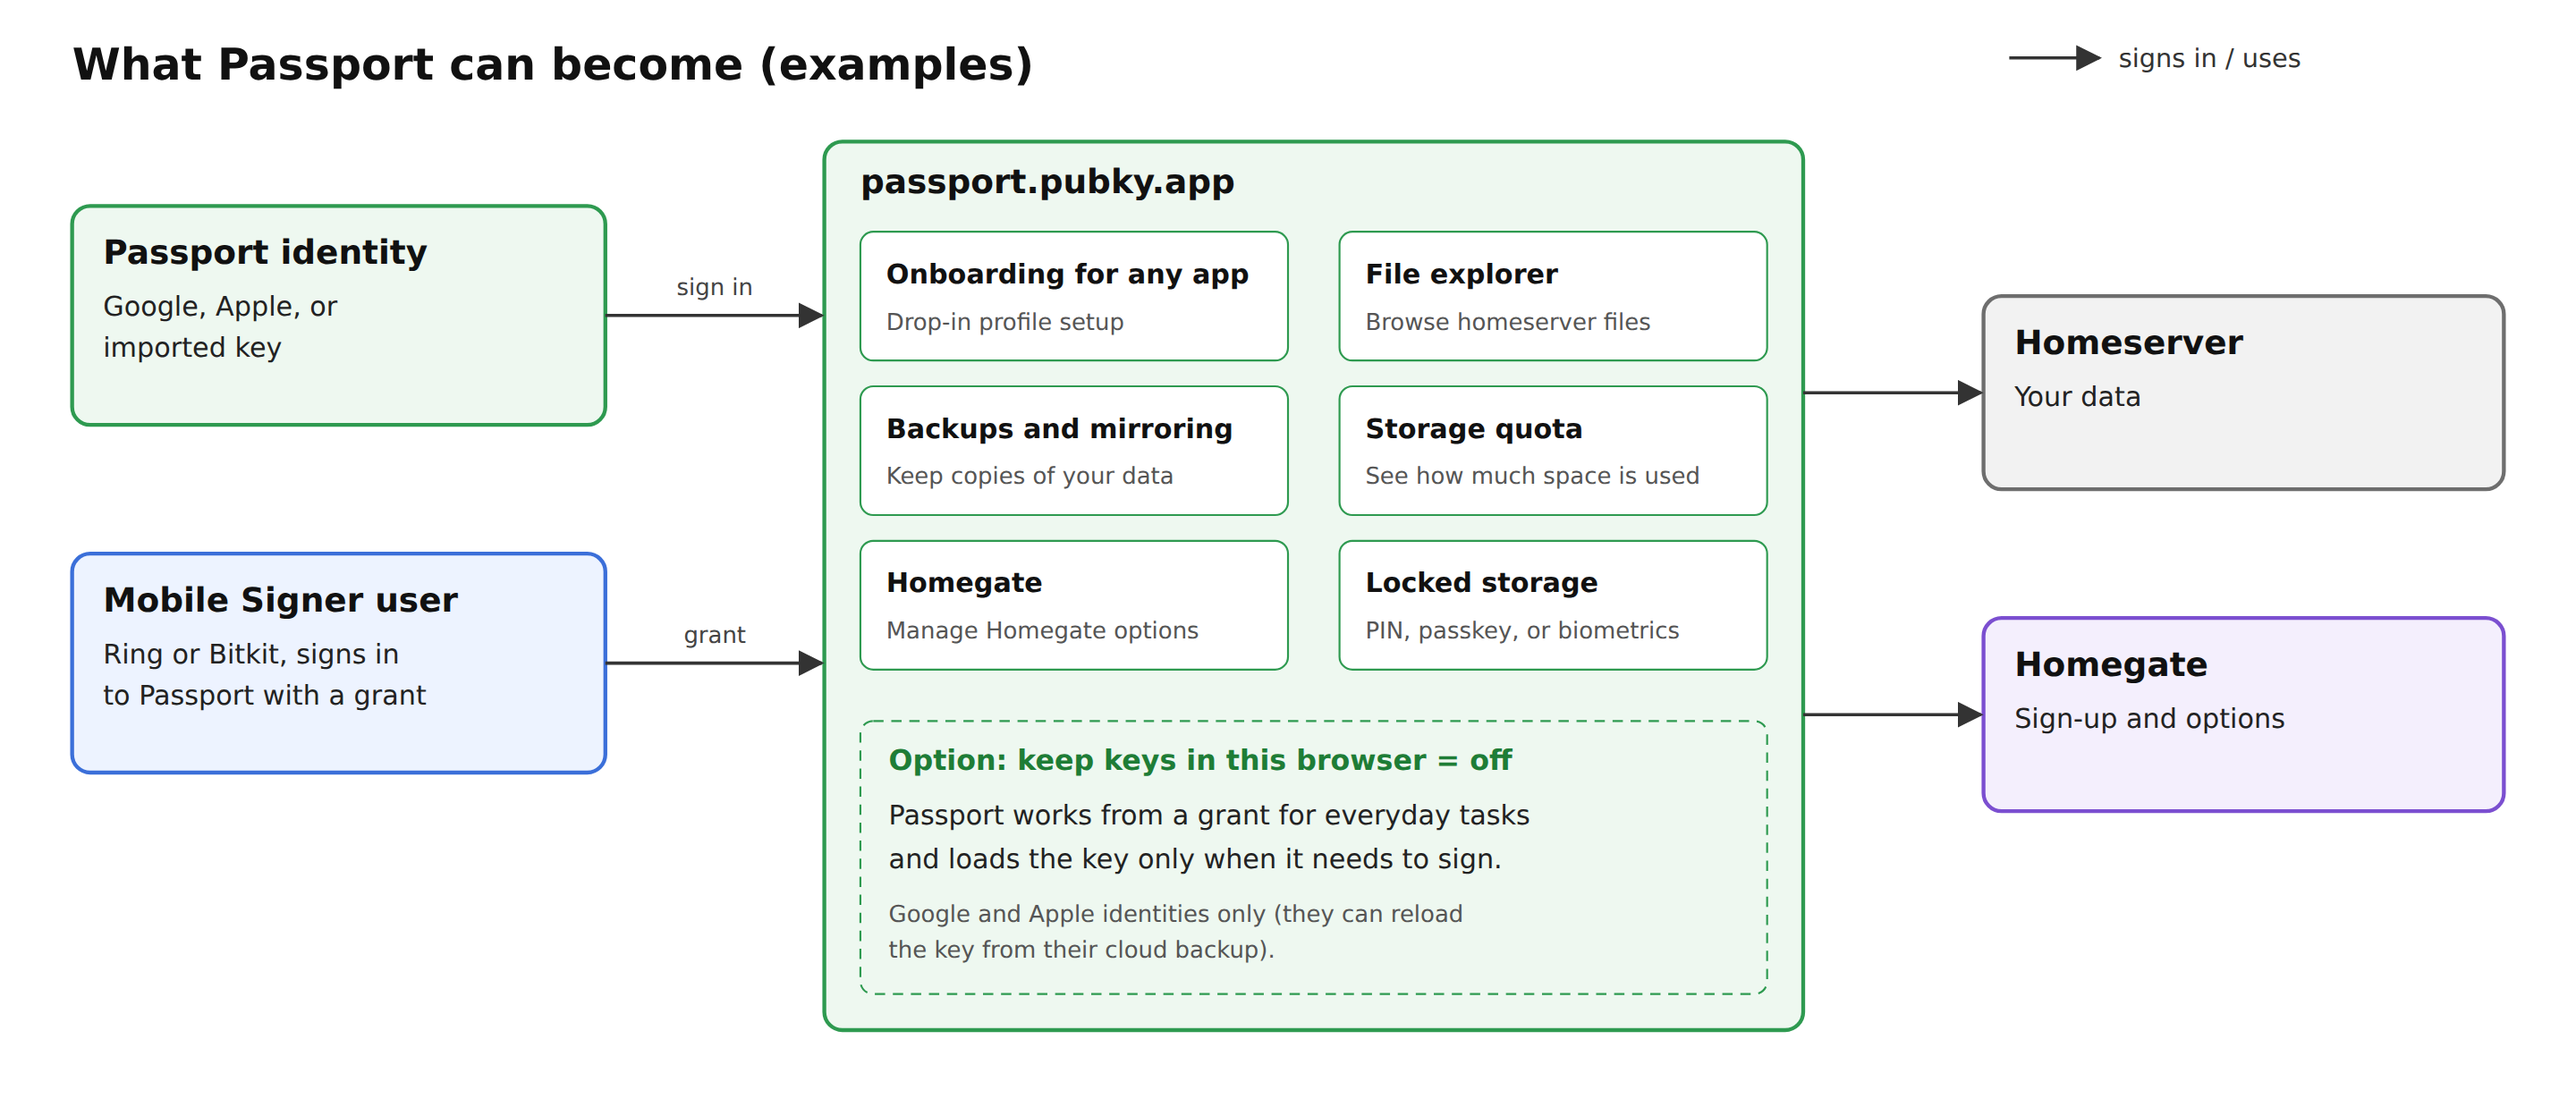
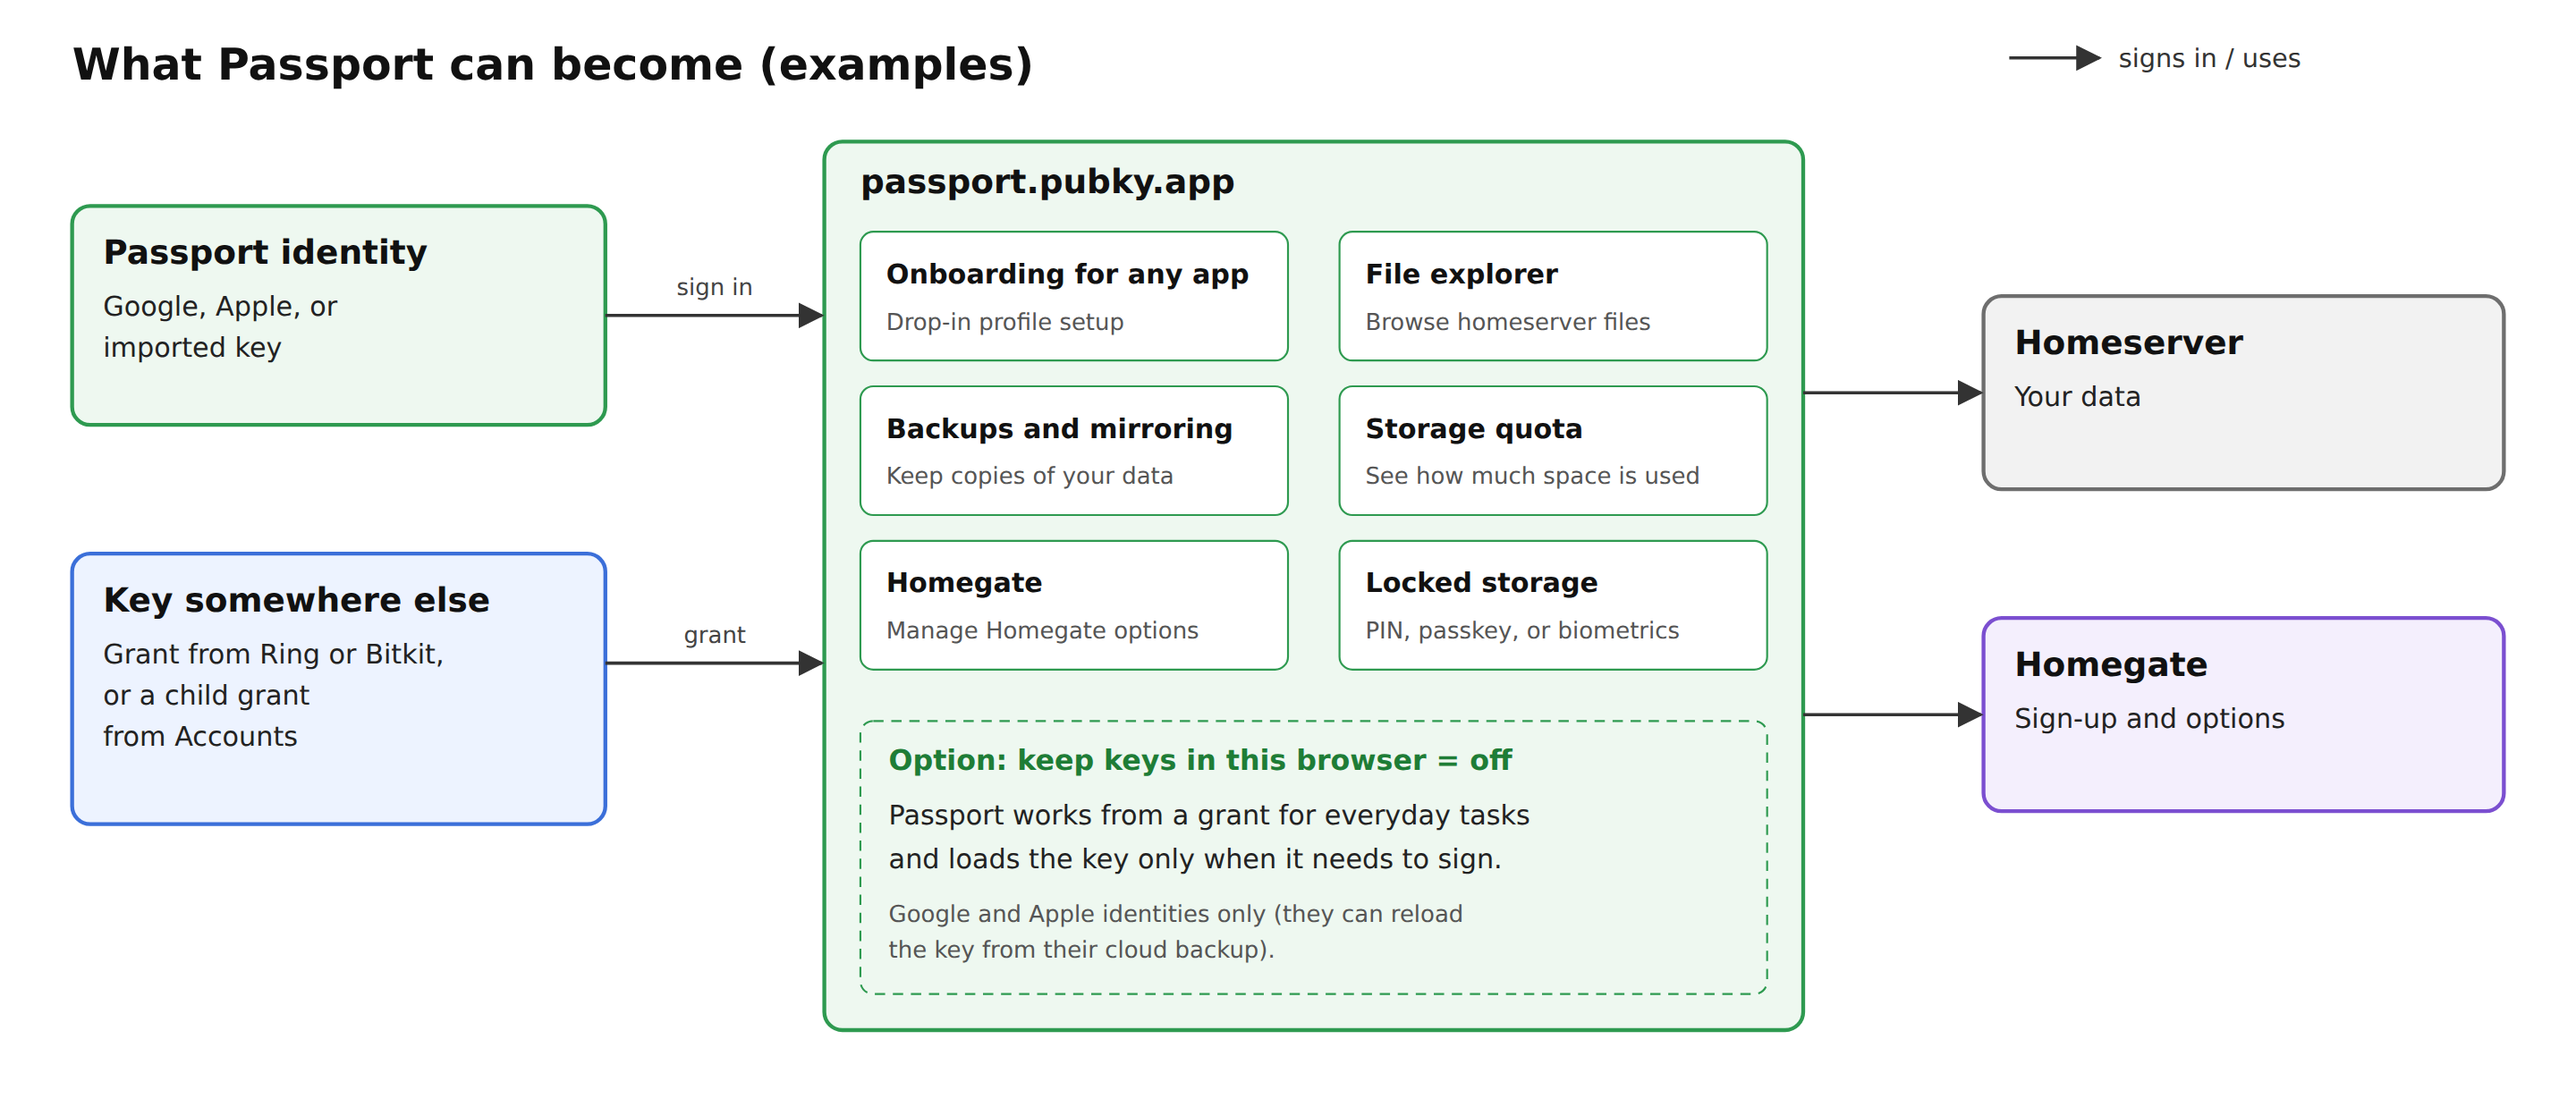
docs(rfc): grant for Passport can come from a Mobile Signer or Accounts

Changed region(s): [[0.0312, 0.5832, 0.25, 0.706], [0.0312, 0.7367, 0.2188, 0.7674], [0.0312, 0.5218, 0.1875, 0.5525]]

diff --git a/docs/rfc/0001-signers-and-accounts.md b/docs/rfc/0001-signers-and-accounts.md
@@ -127,7 +127,7 @@ We don't plan to embed Passport in an iframe. Browsers handle iframe storage and
 
 Pubky is moving to many apps. Profile management and onboarding then shouldn't stay in pubky.app. Apps from other developers should also be able to hand onboarding to a drop-in solution. Passport can be that place.
 
-Passport could become the place where you manage your pubky identity. It isn't limited to keys held in Passport: if you use a Mobile Signer, you can sign in to Passport with a grant and use the same tools.
+Passport could become the place where you manage your pubky identity. It isn't limited to keys held in Passport: if your key is somewhere else, you can sign in to Passport with a grant and use the same tools. The grant can come straight from your Mobile Signer, or be a child grant from Accounts if you're already signed in there.
 
 Some examples of what it could offer:
 
